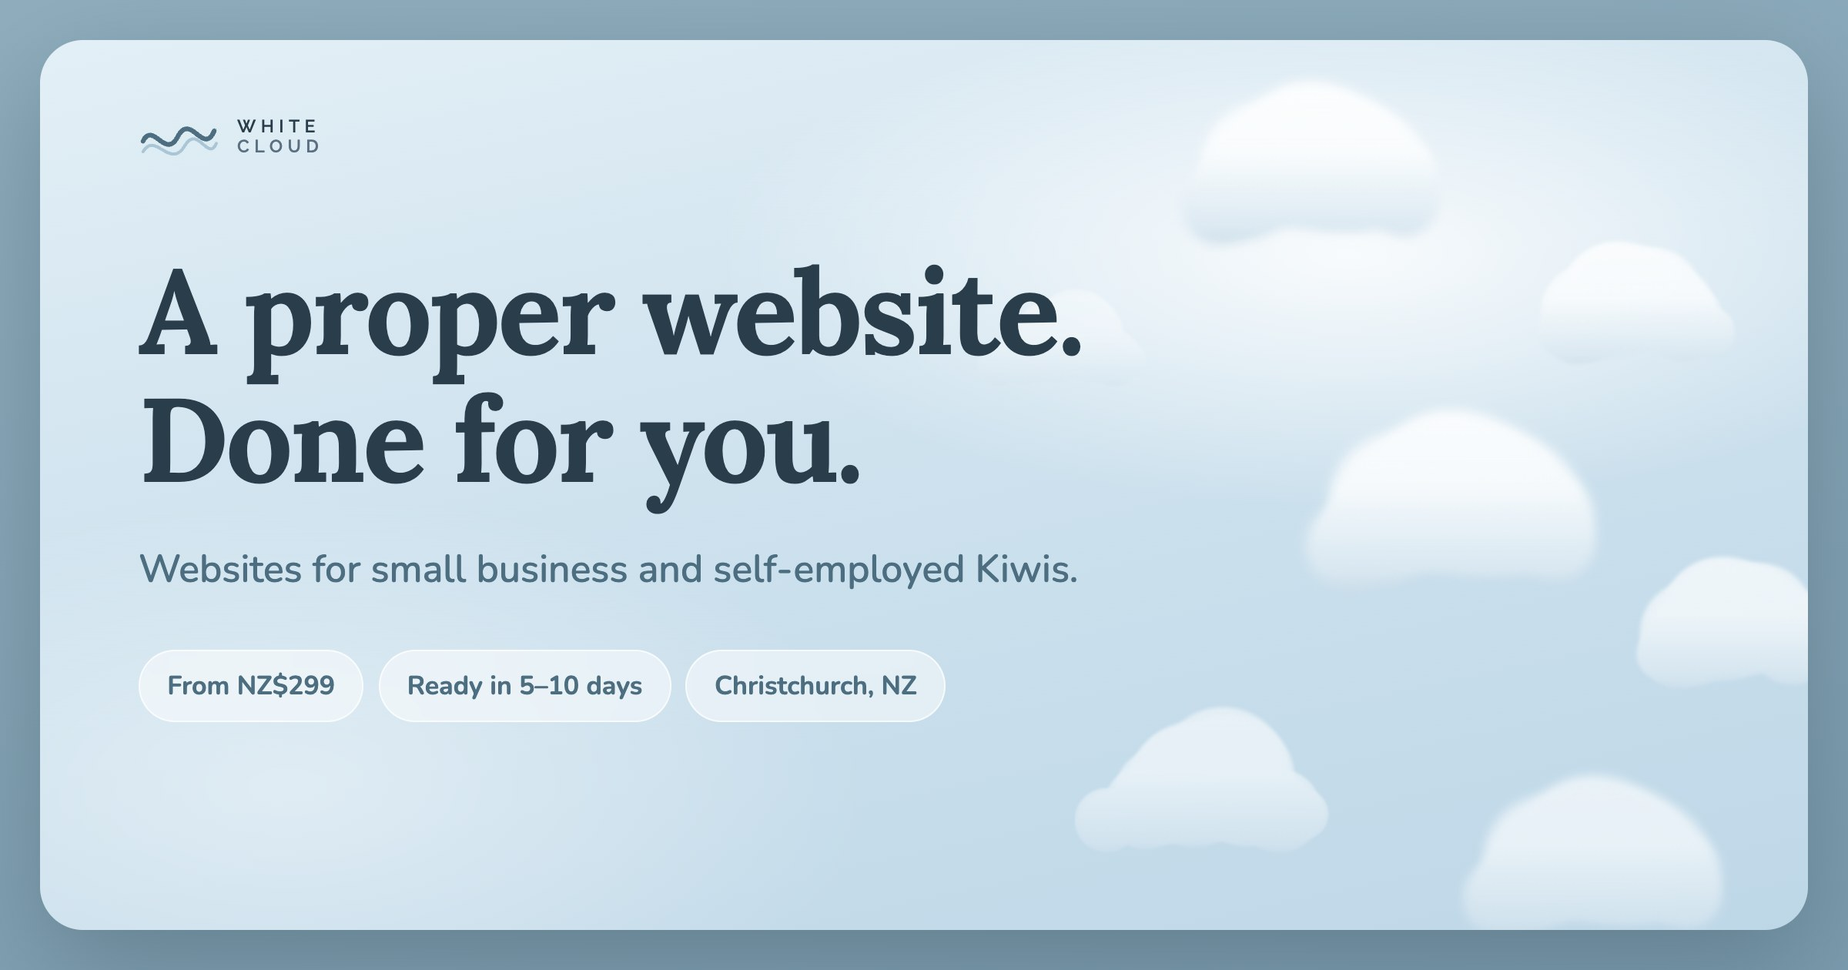
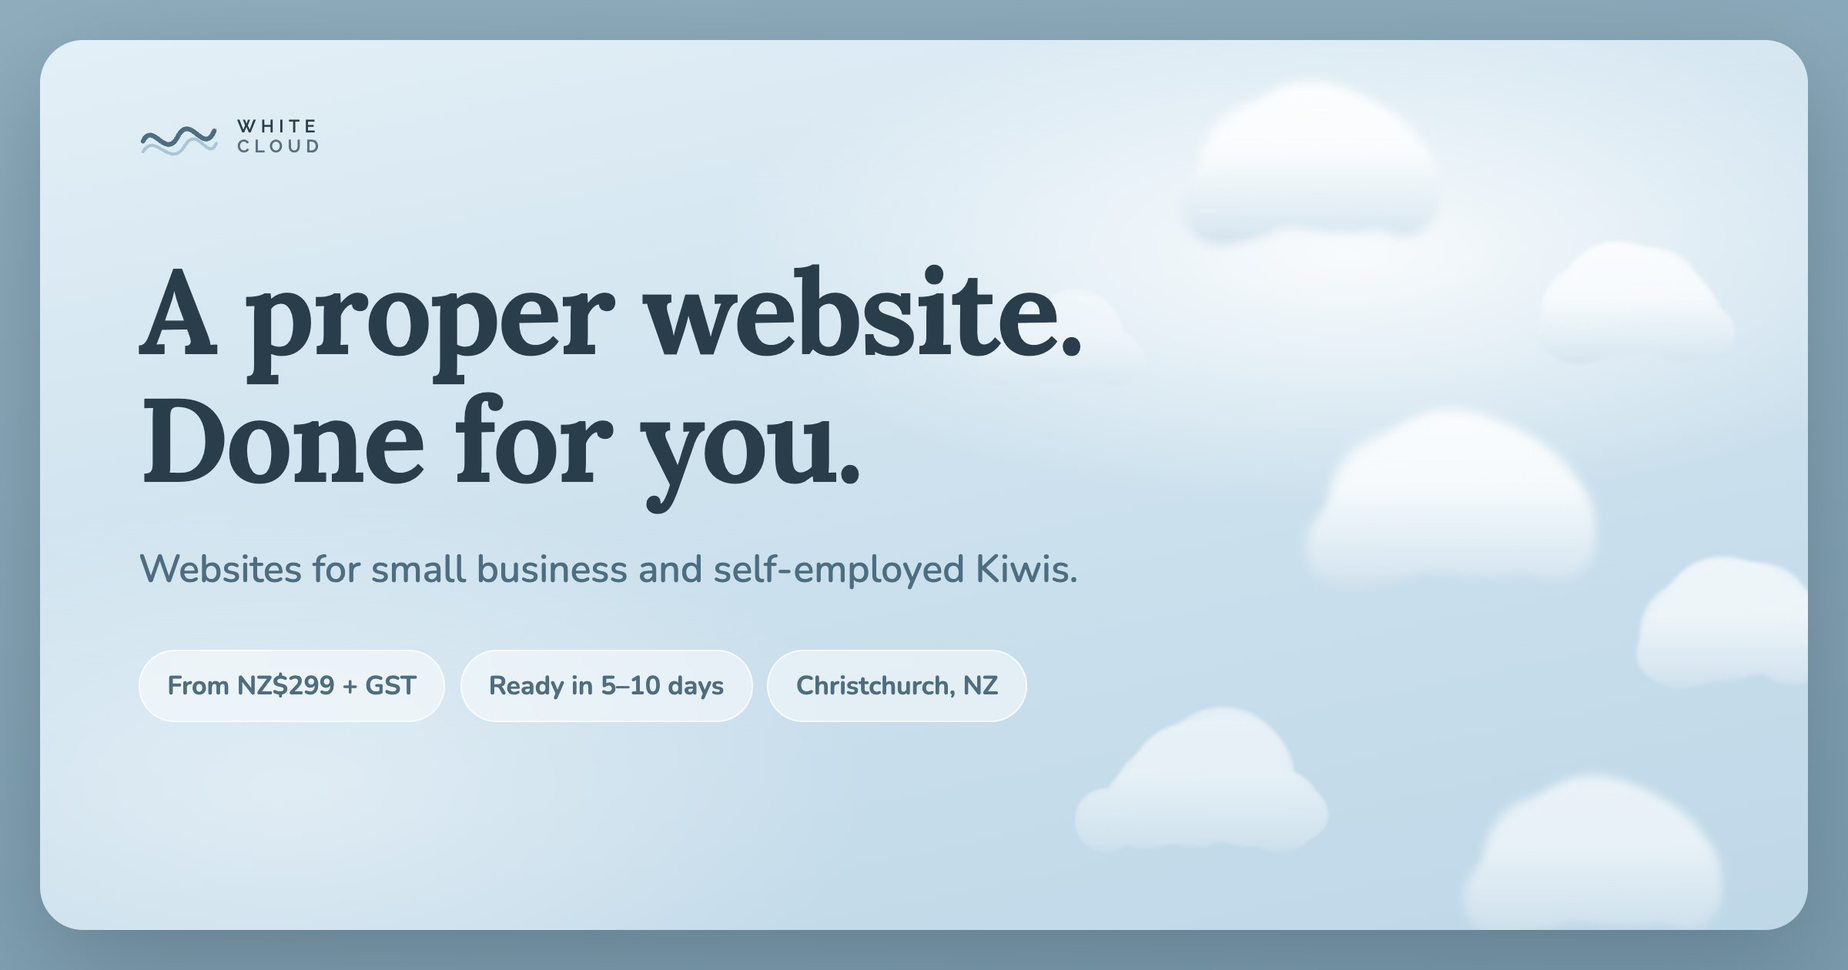
Show GST on every price the site quotes
The website packages said only "One-off payment. No hidden fees. All
prices in New Zealand Dollars" while /marketing said "+ GST" — so a
customer reading $299 had no way to know whether that was the total.
GROOV Creator Limited is GST registered, so it never was.

Every package price now leads with the ex-GST figure and shows the
inclusive amount underneath, the same treatment /marketing already
used: $343.85, $803.85, $1,263.85, and care plans at $56.35 and
$113.85.

Qualified everywhere else the site quotes a price: hero copy, meta
descriptions, schema priceRange, the trust strip, the mock AI answer,
the enquiry form's package dropdown, both blog guides, the OG card,
and llms.txt — which is what AI assistants read out loud, so it now
states plainly that prices exclude GST and gives both figures.

Offer schema carries priceSpecification with valueAddedTaxIncluded
false rather than leaving a bare number to be read as the total.

Changed region(s): [[0.1875, 0.65, 0.5625, 0.7429]]

diff --git a/index.html b/index.html
@@ -11,18 +11,18 @@
 <meta property="og:type"        content="website">
 <meta property="og:url"         content="https://wcloud.nz/">
 <meta property="og:title"       content="White Cloud – Websites for Small Business & Self-Employed">
-<meta property="og:description" content="Affordable, professional websites for NZ small businesses, self-employed Kiwis, and online sellers. From NZ$299. No tech knowledge needed. Based in Christchurch.">
+<meta property="og:description" content="Affordable, professional websites for NZ small businesses, self-employed Kiwis, and online sellers. From NZ$299 + GST. No tech knowledge needed. Based in Christchurch.">
 <meta property="og:image"       content="https://wcloud.nz/og-image.jpg">
 <meta property="og:image:type"  content="image/jpeg">
 <meta property="og:image:width" content="2400">
 <meta property="og:image:height" content="1260">
 <meta name="twitter:card"        content="summary_large_image">
 <meta name="twitter:title"       content="White Cloud – Websites for Small Business & Self-Employed">
-<meta name="twitter:description" content="Affordable, professional websites for NZ small businesses, self-employed Kiwis, and online sellers. From NZ$299. No tech knowledge needed.">
+<meta name="twitter:description" content="Affordable, professional websites for NZ small businesses, self-employed Kiwis, and online sellers. From NZ$299 + GST. No tech knowledge needed.">
 <meta name="twitter:image"       content="https://wcloud.nz/og-image.jpg">
 
 <!-- SEO -->
-<meta name="description" content="White Cloud builds affordable, AI-optimised websites for NZ small businesses, self-employed Kiwis, and small online stores. Based in Christchurch. From NZ$299 with 7-day turnaround. No tech knowledge needed.">
+<meta name="description" content="White Cloud builds affordable, AI-optimised websites for NZ small businesses, self-employed Kiwis, and small online stores. Based in Christchurch. From NZ$299 + GST with 7-day turnaround. No tech knowledge needed.">
 <link rel="canonical" href="https://wcloud.nz/">
 
 <link rel="preconnect" href="https://fonts.googleapis.com">
@@ -657,6 +657,8 @@
   }
   .form-call a:hover { border-bottom-color: var(--brand-ink); }
 
+  .v2-price-gst { font-size: .78rem; color: var(--body); font-weight: 600; }
+
 </style>
 <script type="application/ld+json">
 [
@@ -671,8 +673,8 @@
     "url": "https://wcloud.nz",
     "logo": "https://wcloud.nz/favicon.svg",
     "image": "https://wcloud.nz/og-image.jpg",
-    "description": "White Cloud builds affordable, AI-optimised websites for New Zealand small businesses, self-employed Kiwis, and small online stores. Based in Christchurch, NZ. From NZ$299 with 7-day average delivery. No tech knowledge needed.",
-    "priceRange": "NZ$299–NZ$1,099",
+    "description": "White Cloud builds affordable, AI-optimised websites for New Zealand small businesses, self-employed Kiwis, and small online stores. Based in Christchurch, NZ. From NZ$299 + GST with 7-day average delivery. No tech knowledge needed.",
+    "priceRange": "NZ$299–NZ$1,099 + GST",
     "address": {
       "@type": "PostalAddress",
       "addressLocality": "Christchurch",
@@ -708,7 +710,13 @@
           "description": "Perfect for sole traders and new businesses. Up to 3 pages, mobile-friendly design, contact form, Google Maps embed, basic SEO setup. Delivered in 5–7 days.",
           "price": "299",
           "priceCurrency": "NZD",
-          "url": "https://wcloud.nz/#pricing"
+          "url": "https://wcloud.nz/#pricing",
+          "priceSpecification": {
+            "@type": "PriceSpecification",
+            "price": "299",
+            "priceCurrency": "NZD",
+            "valueAddedTaxIncluded": false
+          }
         },
         {
           "@type": "Offer",
@@ -716,7 +724,13 @@
           "description": "A full website showcasing your services and building trust with customers. Up to 6 pages, full SEO setup, Google Business integration, testimonials section. Delivered in 7–10 days.",
           "price": "699",
           "priceCurrency": "NZD",
-          "url": "https://wcloud.nz/#pricing"
+          "url": "https://wcloud.nz/#pricing",
+          "priceSpecification": {
+            "@type": "PriceSpecification",
+            "price": "699",
+            "priceCurrency": "NZD",
+            "valueAddedTaxIncluded": false
+          }
         },
         {
           "@type": "Offer",
@@ -724,7 +738,13 @@
           "description": "A premium website presence. Up to 10 pages, blog/news section, gallery or portfolio, advanced booking forms, full SEO and sitemap. Priority delivery in 5–7 days.",
           "price": "1099",
           "priceCurrency": "NZD",
-          "url": "https://wcloud.nz/#pricing"
+          "url": "https://wcloud.nz/#pricing",
+          "priceSpecification": {
+            "@type": "PriceSpecification",
+            "price": "1099",
+            "priceCurrency": "NZD",
+            "valueAddedTaxIncluded": false
+          }
         }
       ]
     },
@@ -836,7 +856,7 @@
     <div class="v2-hero-copy">
       <span class="badge"><span class="badge-dot"></span>Christchurch, New Zealand</span>
       <h1 class="wc-display" id="heroHeadline">A proper website. Done for you.</h1>
-      <p class="v2-hero-sub">Self-employed, running a small business, or selling online — no tech knowledge needed and no confusing steps. From NZ$299, live in about a week.</p>
+      <p class="v2-hero-sub">Self-employed, running a small business, or selling online — no tech knowledge needed and no confusing steps. From NZ$299 + GST, live in about a week.</p>
       <div class="v2-actions">
         <a href="#contact" class="btn-p">Get started</a>
         <a href="#work" class="btn-o">See our work</a>
@@ -879,7 +899,7 @@
           <!-- Search: an AI answer, same idea -->
           <div class="v2-build-answer" aria-hidden="true">
             <strong>Who&rsquo;s a good web designer in Christchurch?</strong>
-            <p>White Cloud &mdash; small business sites from NZ$299.</p>
+            <p>White Cloud &mdash; small business sites from NZ$299 + GST.</p>
           </div>
         </div>
 
@@ -979,7 +999,7 @@
   <div class="v2-trust">
     <div><strong>150+</strong><span>Businesses &amp; self-employed helped</span></div>
     <div><strong>7 days</strong><span>Average delivery</span></div>
-    <div><strong>NZ$299</strong><span>Starting price</span></div>
+    <div><strong>NZ$299</strong><span>Starting price + GST</span></div>
   </div>
 
   <!-- PROBLEM -->
@@ -1052,7 +1072,7 @@
         <div class="v2-chat-q">Who&rsquo;s a good web designer in Christchurch, NZ?</div>
         <div class="v2-chat-a">
           <div class="v2-typing" id="aiTyping"><span></span><span></span><span></span></div>
-          <p id="aiResponse" hidden>Based on their website, White Cloud is a Christchurch-based web design service helping small businesses get online affordably and fast &mdash; from NZ$299 with a 7-day turnaround.</p>
+          <p id="aiResponse" hidden>Based on their website, White Cloud is a Christchurch-based web design service helping small businesses get online affordably and fast &mdash; from NZ$299 + GST with a 7-day turnaround.</p>
         </div>
         <div class="v2-ai-sources"><span>ChatGPT</span><span>Gemini</span><span>Siri</span><span>Perplexity</span></div>
       </div>
@@ -1090,13 +1110,14 @@
     <div class="v2-head">
       <span class="lbl">Straightforward pricing</span>
       <h2>Pick the right package for your business</h2>
-      <p>One-off payment. No hidden fees. All prices in New Zealand Dollars.</p>
+      <p>One-off payment, no hidden fees. Prices are shown without GST first, with the GST-inclusive figure underneath. All prices in New Zealand dollars.</p>
     </div>
     <div class="v2-price-grid">
       <div class="v2-price">
         <h3>Cloud One</h3>
         <p class="v2-price-amt">NZ$<strong>299</strong></p>
-        <span class="v2-price-note">One-off payment</span>
+        <span class="v2-price-note">One-off payment + GST</span>
+        <span class="v2-price-gst">$343.85 including GST</span>
         <p class="v2-price-desc">Perfect for sole traders and new businesses that need a clean, simple online presence fast.</p>
         <ul>
           <li>Up to 3 pages (Home, About, Contact)</li>
@@ -1114,7 +1135,8 @@
         <span class="v2-price-flag">Most popular</span>
         <h3>Cloud Plus</h3>
         <p class="v2-price-amt">NZ$<strong>699</strong></p>
-        <span class="v2-price-note">One-off payment</span>
+        <span class="v2-price-note">One-off payment + GST</span>
+        <span class="v2-price-gst">$803.85 including GST</span>
         <p class="v2-price-desc">A full website that tells your whole story, showcases your services, and builds trust with new customers.</p>
         <ul>
           <li>Up to 6 pages</li>
@@ -1133,7 +1155,8 @@
       <div class="v2-price">
         <h3>Cloud Pro</h3>
         <p class="v2-price-amt">NZ$<strong>1,099</strong></p>
-        <span class="v2-price-note">One-off payment</span>
+        <span class="v2-price-note">One-off payment + GST</span>
+        <span class="v2-price-gst">$1,263.85 including GST</span>
         <p class="v2-price-desc">A premium presence with everything you need to stand out online and attract more customers.</p>
         <ul>
           <li>Up to 10 pages</li>
@@ -1172,7 +1195,7 @@
     <div class="v2-head">
       <span class="lbl">After you&rsquo;re live</span>
       <h2>Two ways we can keep helping</h2>
-      <p>Neither is required. Your website is yours once it&rsquo;s built.</p>
+      <p>Neither is required. Your website is yours once it&rsquo;s built. Prices exclude GST, with the inclusive figure shown underneath.</p>
     </div>
     <p class="v2-care-lead">Your site is built and ready. If you&rsquo;d like someone to look after it &mdash; updated, backed up and running smoothly &mdash; we offer optional care plans. No lock-in, cancel any time.</p>
 
@@ -1180,7 +1203,8 @@
       <div class="v2-price">
         <h3>Basic Care</h3>
         <p class="v2-price-amt">NZ$<strong>49</strong></p>
-        <span class="v2-price-note">Per month</span>
+        <span class="v2-price-note">Per month + GST</span>
+        <span class="v2-price-gst">$56.35 / month including GST</span>
         <p class="v2-price-desc">Great for keeping things running smoothly in the background.</p>
         <ul>
           <li>Monthly security updates</li>
@@ -1195,7 +1219,8 @@
       <div class="v2-price">
         <h3>Full Care</h3>
         <p class="v2-price-amt">NZ$<strong>99</strong></p>
-        <span class="v2-price-note">Per month</span>
+        <span class="v2-price-note">Per month + GST</span>
+        <span class="v2-price-gst">$113.85 / month including GST</span>
         <p class="v2-price-desc">Everything in Basic, plus hands-on help whenever you need it.</p>
         <ul>
           <li>Everything in Basic Care</li>
@@ -1345,9 +1370,9 @@
           <label class="form-label" for="fpackage">Which package are you interested in?</label>
           <select class="form-select" id="fpackage" name="package">
             <option value="" disabled selected>Select a package…</option>
-            <option value="Cloud One — NZ$299">Cloud One — NZ$299 (Up to 3 pages)</option>
-            <option value="Cloud Plus — NZ$699">Cloud Plus — NZ$699 (Up to 6 pages) — Most Popular</option>
-            <option value="Cloud Pro — NZ$1,099">Cloud Pro — NZ$1,099 (Up to 10 pages)</option>
+            <option value="Cloud One — NZ$299">Cloud One — NZ$299 + GST (Up to 3 pages)</option>
+            <option value="Cloud Plus — NZ$699">Cloud Plus — NZ$699 + GST (Up to 6 pages) — Most Popular</option>
+            <option value="Cloud Pro — NZ$1,099">Cloud Pro — NZ$1,099 + GST (Up to 10 pages)</option>
             <option value="Not sure — please recommend">Not sure yet — I'd love your recommendation</option>
           </select>
         </div>

diff --git a/marketing.html b/marketing.html
@@ -288,7 +288,7 @@
     "@type": "Country",
     "name": "New Zealand"
   },
-  "priceRange": "NZ$299–NZ$1,099",
+  "priceRange": "NZ$299–NZ$1,099 + GST",
   "founder": {
     "@type": "Person",
     "@id": "https://wcloud.nz/#jay",
@@ -326,7 +326,13 @@
         "price": "650",
         "priceCurrency": "NZD",
         "description": "One-off account setup, conversion tracking, audience and keyword research, campaign structure and initial ad copy. Price excludes GST. Ad spend and email platform fees are billed separately by those providers.",
-        "availability": "https://schema.org/InStock"
+        "availability": "https://schema.org/InStock",
+        "priceSpecification": {
+          "@type": "PriceSpecification",
+          "price": "650",
+          "priceCurrency": "NZD",
+          "valueAddedTaxIncluded": false
+        }
       },
       {
         "@type": "Offer",
@@ -334,7 +340,13 @@
         "price": "550",
         "priceCurrency": "NZD",
         "description": "Ongoing management of Google or Meta: campaign management, budget and bid optimisation, monthly performance report. Price excludes GST. Ad spend and email platform fees are billed separately by those providers.",
-        "availability": "https://schema.org/InStock"
+        "availability": "https://schema.org/InStock",
+        "priceSpecification": {
+          "@type": "PriceSpecification",
+          "price": "550",
+          "priceCurrency": "NZD",
+          "valueAddedTaxIncluded": false
+        }
       },
       {
         "@type": "Offer",
@@ -342,7 +354,13 @@
         "price": "850",
         "priceCurrency": "NZD",
         "description": "Google and Meta managed as one strategy, with cross-platform strategy and a combined monthly report. Price excludes GST. Ad spend and email platform fees are billed separately by those providers.",
-        "availability": "https://schema.org/InStock"
+        "availability": "https://schema.org/InStock",
+        "priceSpecification": {
+          "@type": "PriceSpecification",
+          "price": "850",
+          "priceCurrency": "NZD",
+          "valueAddedTaxIncluded": false
+        }
       },
       {
         "@type": "Offer",
@@ -350,7 +368,13 @@
         "price": "350",
         "priceCurrency": "NZD",
         "description": "Email platform account setup, branded template, a two to three email welcome sequence and contact list import. Price excludes GST. Ad spend and email platform fees are billed separately by those providers.",
-        "availability": "https://schema.org/InStock"
+        "availability": "https://schema.org/InStock",
+        "priceSpecification": {
+          "@type": "PriceSpecification",
+          "price": "350",
+          "priceCurrency": "NZD",
+          "valueAddedTaxIncluded": false
+        }
       },
       {
         "@type": "Offer",
@@ -358,7 +382,13 @@
         "price": "300",
         "priceCurrency": "NZD",
         "description": "Two campaigns a month with copywriting included, basic list segmentation and a monthly performance summary. Price excludes GST. Ad spend and email platform fees are billed separately by those providers.",
-        "availability": "https://schema.org/InStock"
+        "availability": "https://schema.org/InStock",
+        "priceSpecification": {
+          "@type": "PriceSpecification",
+          "price": "300",
+          "priceCurrency": "NZD",
+          "valueAddedTaxIncluded": false
+        }
       }
     ]
   }
@@ -437,7 +467,7 @@
               <span class="mk-tag">Sponsored</span>
               <strong>White Cloud &mdash; Websites for small business</strong>
               <span>wcloud.nz</span>
-              <p>Clean, professional websites from NZ$299. Live in about a week.</p>
+              <p>Clean, professional websites from NZ$299 + GST. Live in about a week.</p>
             </div>
             <div class="mk-ghost"></div>
             <div class="mk-ghost short"></div>

diff --git a/restaurants.html b/restaurants.html
@@ -11,18 +11,18 @@
 <meta property="og:type"        content="website">
 <meta property="og:url"         content="https://wcloud.nz/restaurants">
 <meta property="og:title"       content="White Cloud – Websites for Restaurants, Cafés & Food Trucks">
-<meta property="og:description" content="Affordable, professional websites for Christchurch restaurants, cafés and food trucks. Menus, ordering, and Google + AI search visibility. From NZ$299.">
+<meta property="og:description" content="Affordable, professional websites for Christchurch restaurants, cafés and food trucks. Menus, ordering, and Google + AI search visibility. From NZ$299 + GST.">
 <meta property="og:image"       content="https://wcloud.nz/og-image.jpg">
 <meta property="og:image:type"  content="image/jpeg">
 <meta property="og:image:width" content="2400">
 <meta property="og:image:height" content="1260">
 <meta name="twitter:card"        content="summary_large_image">
 <meta name="twitter:title"       content="White Cloud – Websites for Restaurants, Cafés & Food Trucks">
-<meta name="twitter:description" content="Affordable, professional websites for Christchurch restaurants, cafés and food trucks. Menus, ordering, and Google + AI search visibility. From NZ$299.">
+<meta name="twitter:description" content="Affordable, professional websites for Christchurch restaurants, cafés and food trucks. Menus, ordering, and Google + AI search visibility. From NZ$299 + GST.">
 <meta name="twitter:image"       content="https://wcloud.nz/og-image.jpg">
 
 <!-- SEO -->
-<meta name="description" content="Affordable, professional websites for Christchurch restaurants, cafés and food trucks. Menus, ordering, and Google + AI search visibility. From NZ$299.">
+<meta name="description" content="Affordable, professional websites for Christchurch restaurants, cafés and food trucks. Menus, ordering, and Google + AI search visibility. From NZ$299 + GST.">
 <link rel="canonical" href="https://wcloud.nz/restaurants">
 
 <link rel="preconnect" href="https://fonts.googleapis.com">
@@ -256,8 +256,8 @@
     "url": "https://wcloud.nz",
     "logo": "https://wcloud.nz/favicon.svg",
     "image": "https://wcloud.nz/og-image.jpg",
-    "description": "White Cloud builds affordable, AI-optimised websites for New Zealand small businesses, including restaurants, cafés and food trucks. Based in Christchurch, NZ. From NZ$299 with 7-day average delivery.",
-    "priceRange": "NZ$299–NZ$1,099",
+    "description": "White Cloud builds affordable, AI-optimised websites for New Zealand small businesses, including restaurants, cafés and food trucks. Based in Christchurch, NZ. From NZ$299 + GST with 7-day average delivery.",
+    "priceRange": "NZ$299–NZ$1,099 + GST",
     "address": {
       "@type": "PostalAddress",
       "addressLocality": "Christchurch",

diff --git a/blog/how-much-does-a-website-cost-nz.html b/blog/how-much-does-a-website-cost-nz.html
@@ -147,7 +147,7 @@
 
       <div class="wc-article-cta">
         <h2>Where White Cloud fits</h2>
-        <p>We build sites for small businesses and self-employed Kiwis from <a href="/#pricing">NZ$299</a>, live in about a week, no lock-in contracts. It&rsquo;s not a DIY builder &mdash; we write the words, handle the design, and set up basic SEO before you launch. If your business needs more than that, we also run <a href="/marketing">ads and email marketing</a>, priced separately so you only pay for what you actually need.</p>
+        <p>We build sites for small businesses and self-employed Kiwis from <a href="/#pricing">NZ$299 + GST</a>, live in about a week, no lock-in contracts. It&rsquo;s not a DIY builder &mdash; we write the words, handle the design, and set up basic SEO before you launch. If your business needs more than that, we also run <a href="/marketing">ads and email marketing</a>, priced separately so you only pay for what you actually need.</p>
         <p>If you&rsquo;re not sure which end of that range fits your business, <a href="/#contact">get in touch</a> and we&rsquo;ll tell you honestly &mdash; including if the answer is &ldquo;you don&rsquo;t need us yet.&rdquo;</p>
       </div>
     </div>

diff --git a/blog/website-builder-vs-professional-designer.html b/blog/website-builder-vs-professional-designer.html
@@ -150,7 +150,7 @@
 
       <div class="wc-article-cta">
         <h2>The middle option, in practice</h2>
-        <p>That gap is what we built White Cloud to fill &mdash; a properly built and written site from <a href="/#pricing">NZ$299</a>, live in about a week, no ongoing lock-in. You get the &ldquo;someone else did the hard parts&rdquo; outcome without the agency price tag or timeline.</p>
+        <p>That gap is what we built White Cloud to fill &mdash; a properly built and written site from <a href="/#pricing">NZ$299 + GST</a>, live in about a week, no ongoing lock-in. You get the &ldquo;someone else did the hard parts&rdquo; outcome without the agency price tag or timeline.</p>
         <p>If you want a second opinion on which side of that line you&rsquo;re on, <a href="/#contact">tell us about your business</a> and we&rsquo;ll give you a straight answer, even if that answer is &ldquo;you don&rsquo;t need us yet.&rdquo;</p>
       </div>
     </div>

diff --git a/card.html b/card.html
@@ -12,7 +12,7 @@
 <meta property="og:type" content="profile">
 <meta property="og:url" content="https://wcloud.nz/card">
 <meta property="og:title" content="Jay – White Cloud | Web Designer · Christchurch, NZ">
-<meta property="og:description" content="Affordable, AI-optimised websites for NZ small businesses. From NZ$299.">
+<meta property="og:description" content="Affordable, AI-optimised websites for NZ small businesses. From NZ$299 + GST.">
 <meta property="og:image" content="https://wcloud.nz/og-image.jpg">
 <meta property="og:image:width" content="1200">
 <meta property="og:image:height" content="1200">

diff --git a/og.html b/og.html
@@ -67,7 +67,7 @@
       <h1 class="wc-display">A proper website. Done for you.</h1>
       <p class="og-sub">Websites for small business and self-employed Kiwis.</p>
       <div class="og-chips">
-        <span class="wc-chip">From NZ$299</span>
+        <span class="wc-chip">From NZ$299 + GST</span>
         <span class="wc-chip">Ready in 5&ndash;10 days</span>
         <span class="wc-chip">Christchurch, NZ</span>
       </div>
